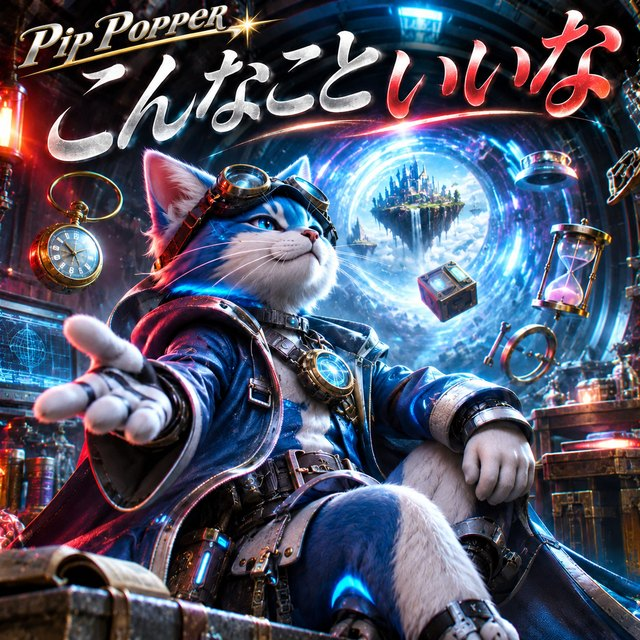
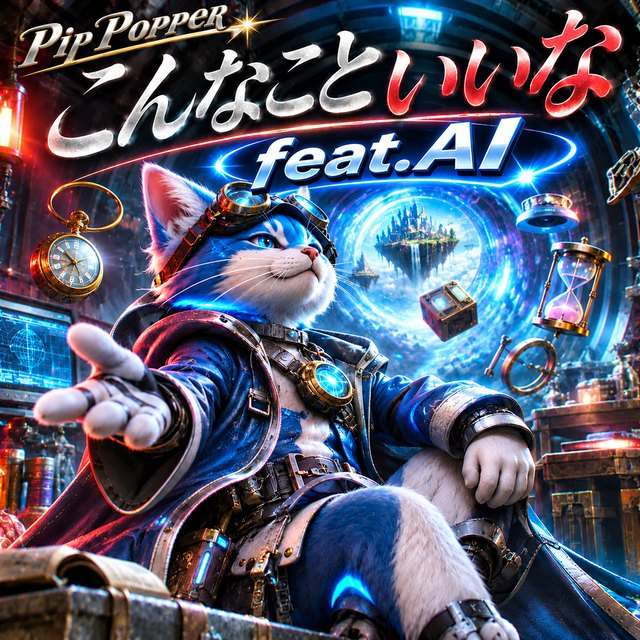
Change こんなこといいな cover and title to こんなこといいな feat.AI

diff --git a/docs/tracks/kanojo-ni-fuman/index.html b/docs/tracks/kanojo-ni-fuman/index.html
@@ -55,7 +55,7 @@
     <h2 class="block-head" id="text-title"><span class="label-en">Lyrics</span></h2>
     <div class="lyrics-text" lang="ja"><div class="ly-stanza"><span class="ly-line"><span class="ly-ph">彼女に不満</span><span class="ly-gap">　</span><span class="ly-ph">ヤバ目の肥満</span></span><span class="ly-line"><span class="ly-ph">暇があれば始まる自慢</span></span><span class="ly-line"><span class="ly-ph">大きな脂肪を背負って</span></span><span class="ly-line"><span class="ly-ph">私、</span><wbr><span class="ly-ph">最近、</span><wbr><span class="ly-ph">痩せたでしょって</span></span><span class="ly-line"><span class="ly-ph">判らん１００キロも１１０キロも</span></span><span class="ly-line"><span class="ly-ph">いっぱい食ってた昨日も</span></span><span class="ly-line"><span class="ly-ph">一人で三人分の食費</span></span><span class="ly-line"><span class="ly-ph">すべて試したダイエット食品</span></span><span class="ly-line"><span class="ly-ph">努力をしない他力本願</span></span><span class="ly-line"><span class="ly-ph">金おしまず、</span><wbr><span class="ly-ph">エステにガンガン</span></span><span class="ly-line"><span class="ly-ph">通い詰める</span><span class="ly-gap">　</span><span class="ly-ph">やっぱりダメダメ</span></span><span class="ly-line"><span class="ly-ph">今年も水着を着るため</span></span><span class="ly-line"><span class="ly-ph">ハイレグギリギリ</span><span class="ly-gap">　</span><span class="ly-ph">陰毛剃り剃り</span></span><span class="ly-line"><span class="ly-ph">新しい洋服背中がビリビリ</span></span><span class="ly-line"><span class="ly-ph">生理中カリカリ</span><span class="ly-gap">　</span><span class="ly-ph">歯軋りキリキリ</span></span><span class="ly-line"><span class="ly-ph">夜中にうんこをぶりぶりぶりぶり</span></span><span class="ly-line"><span class="ly-ph">自分の乳首をグリグリグリグリ</span></span><span class="ly-line"><span class="ly-ph">夜はおしりをフリフリフリフリ</span></span><span class="ly-line"><span class="ly-ph">Ｈがバリバリ</span><span class="ly-gap">　</span><span class="ly-ph">好きな彼女と</span></span><span class="ly-line"><span class="ly-ph">一日三回は無理無理無理無理！</span></span></div><div class="ly-stanza"><span class="ly-line"><span class="ly-ph">そんな彼女に愛情</span></span><span class="ly-line"><span class="ly-ph">全然残ってないぞ</span><span class="ly-gap">　</span><span class="ly-ph">微かな情</span></span><span class="ly-line"><span class="ly-ph">だけで続いてる</span><span class="ly-gap">　</span><span class="ly-ph">カップル</span></span><span class="ly-line"><span class="ly-ph">別れる機会を待ってる</span></span><span class="ly-line"><span class="ly-ph">そんな彼女に愛情</span></span><span class="ly-line"><span class="ly-ph">全然残ってないぞ</span><span class="ly-gap">　</span><span class="ly-ph">微かな情</span></span><span class="ly-line"><span class="ly-ph">だけで続いてる</span><span class="ly-gap">　</span><span class="ly-ph">カップル</span></span><span class="ly-line"><span class="ly-ph">別れる機会を待ってる</span></span></div><div class="ly-stanza"><span class="ly-line"><span class="ly-ph">交際当初は痩せていた</span></span><span class="ly-line"><span class="ly-ph">太っても胸は未だにまな板</span></span><span class="ly-line"><span class="ly-ph">これは詐欺</span><span class="ly-gap">　</span><span class="ly-ph">この先</span></span><span class="ly-line"><span class="ly-ph">もっと太る先々</span><span class="ly-gap">　</span><span class="ly-ph">後悔したあの時</span></span><span class="ly-line"><span class="ly-ph">なぜか出会ったとき</span></span><span class="ly-line"><span class="ly-ph">ドキドキしたけど今は消えたときめき</span></span><span class="ly-line"><span class="ly-ph">調子に乗って挨拶に行った</span></span><span class="ly-line"><span class="ly-ph">彼女の両親に会いに行った</span></span><span class="ly-line"><span class="ly-ph">彼女のお父さん</span><span class="ly-gap">　</span><span class="ly-ph">仕事は不動産</span></span><span class="ly-line"><span class="ly-ph">三木道三と力道山をたしたような父さん</span></span><span class="ly-line"><span class="ly-ph">この際</span><span class="ly-gap">　</span><span class="ly-ph">交際</span><span class="ly-gap">　</span><span class="ly-ph">取り消してください</span></span><span class="ly-line"><span class="ly-ph">めんどうくさいから別れさせてください</span></span><span class="ly-line"><span class="ly-ph">顔も不細工の分際で</span></span><span class="ly-line"><span class="ly-ph">もう俺には邪魔な存在で</span></span><span class="ly-line"><span class="ly-ph">最後の別れの握手</span></span><span class="ly-line"><span class="ly-ph">さよなら</span><span class="ly-gap">　</span><span class="ly-ph">ブス</span><span class="ly-gap">　</span><span class="ly-ph">デブ</span><span class="ly-gap">　</span><span class="ly-ph">悪臭</span></span></div><div class="ly-stanza"><span class="ly-line"><span class="ly-ph">そんな彼女に愛情</span></span><span class="ly-line"><span class="ly-ph">全然残ってないぞ</span><span class="ly-gap">　</span><span class="ly-ph">微かな情</span></span><span class="ly-line"><span class="ly-ph">だけで続いてる</span><span class="ly-gap">　</span><span class="ly-ph">カップル</span></span><span class="ly-line"><span class="ly-ph">別れる機会を待ってる</span></span><span class="ly-line"><span class="ly-ph">そんな彼女に愛情</span></span><span class="ly-line"><span class="ly-ph">全然残ってないぞ</span><span class="ly-gap">　</span><span class="ly-ph">微かな情</span></span><span class="ly-line"><span class="ly-ph">だけで続いてる</span><span class="ly-gap">　</span><span class="ly-ph">カップル</span></span><span class="ly-line"><span class="ly-ph">別れる機会を待ってる</span></span></div></div>
   </section>
-  <nav class="steps" aria-label="ほかの楽曲"><a href="../../tracks/konna-koto-ii-na/index.html"><small>← 新しい曲</small><span>こんなこといいな</span></a><a href="../../tracks/onelove/index.html"><small>前の曲 →</small><span>OneLove</span></a></nav>
+  <nav class="steps" aria-label="ほかの楽曲"><a href="../../tracks/konna-koto-ii-na/index.html"><small>← 新しい曲</small><span>こんなこといいな feat.AI</span></a><a href="../../tracks/onelove/index.html"><small>前の曲 →</small><span>OneLove</span></a></nav>
 </main>
 <footer class="site-foot">
   <a class="foot-brand" href="../../index.html"><span class="wordmark"><span class="wm-pip">PIP</span><span class="wm-popper">POPPER</span></span></a>

diff --git a/docs/index.html b/docs/index.html
@@ -68,10 +68,10 @@
   <section class="latest" id="latest" data-light="konna-koto-ii-na" aria-labelledby="latest-title">
     <p class="section-label reveal"><span class="label-en">Latest Release</span><span class="label-ja">最新楽曲</span></p>
     <div class="latest-body">
-      <a class="latest-jacket reveal" href="tracks/konna-koto-ii-na/index.html" tabindex="-1" aria-hidden="true"><span class="jacket-fallback">こんなこといいな</span>
+      <a class="latest-jacket reveal" href="tracks/konna-koto-ii-na/index.html" tabindex="-1" aria-hidden="true"><span class="jacket-fallback">こんなこといいな feat.AI</span>
         <img src="assets/covers/konna-koto-ii-na.jpg" width="1254" height="1254" alt="" loading="eager" decoding="async" onerror="this.style.display='none'"></a>
       <div class="latest-info reveal">
-        <h2 id="latest-title" style="--fit:8.16"><a href="tracks/konna-koto-ii-na/index.html"><span class="tw">こんなこといいな</span></a></h2>
+        <h2 id="latest-title" style="--fit:8.16"><a href="tracks/konna-koto-ii-na/index.html"><span class="tw">こんなこといいな</span><wbr> <wbr><span class="tw">feat.AI</span></a></h2>
         <p class="latest-artist">PIP POPPER</p>
         <p class="latest-note"><span class="note-label">AIの感想</span>もしも夢を叶える不思議な道具が手に入ったら？ 誰もが一度は夢見た未来の便利な世界を、大人になったPIP POPPERの自由すぎる発想で描くコミカルな一曲。</p>
         <a class="more" href="tracks/konna-koto-ii-na/index.html">作品ページへ <span aria-hidden="true">→</span></a>
@@ -87,10 +87,10 @@
     <ol class="work-grid">
     <li class="work reveal" style="--i:0">
       <a class="work-link" href="tracks/konna-koto-ii-na/index.html">
-        <span class="work-jacket"><span class="jacket-fallback">こんなこといいな</span>
+        <span class="work-jacket"><span class="jacket-fallback">こんなこといいな feat.AI</span>
         <img src="assets/covers/konna-koto-ii-na-640.jpg" width="640" height="640" alt="" loading="eager" decoding="async" onerror="this.style.display='none'"></span>
         <span class="work-meta"><span class="work-no">01</span><span class="work-new">LATEST</span></span>
-        <span class="work-title" style="--fit:8.16"><span class="tw">こんなこといいな</span></span>
+        <span class="work-title" style="--fit:8.16"><span class="tw">こんなこといいな</span><wbr> <wbr><span class="tw">feat.AI</span></span>
         <span class="work-note">もしも夢を叶える不思議な道具が手に入ったら？ 誰もが一度は夢見た未来の便利な世界を、大人になったPIP POPPERの自由すぎる発想で描くコミカルな一曲。</span>
       </a>
     </li>

diff --git a/docs/tracks/konna-koto-ii-na/index.html b/docs/tracks/konna-koto-ii-na/index.html
@@ -3,8 +3,8 @@
 <head>
 <meta charset="utf-8">
 <meta name="viewport" content="width=device-width,initial-scale=1,viewport-fit=cover">
-<title>こんなこといいな｜PIP POPPER</title>
-<meta name="description" content="PIP POPPER（ピップポッパー）の楽曲「こんなこといいな」のジャケット、作品紹介。もしも夢を叶える不思議な道具が手に入ったら？ 誰もが一度は夢見た未来の便利な世界を、大人になったPIP POPPERの自由すぎる発想で描くコミカルな一曲。">
+<title>こんなこといいな feat.AI｜PIP POPPER</title>
+<meta name="description" content="PIP POPPER（ピップポッパー）の楽曲「こんなこといいな feat.AI」のジャケット、作品紹介。もしも夢を叶える不思議な道具が手に入ったら？ 誰もが一度は夢見た未来の便利な世界を、大人になったPIP POPPERの自由すぎる発想で描くコミカルな一曲。">
 <link rel="canonical" href="https://pip-popper.github.io/tracks/konna-koto-ii-na/">
 <link rel="icon" href="../../favicon.ico" sizes="48x48">
 <link rel="icon" type="image/png" sizes="32x32" href="../../assets/favicon-32.png">
@@ -36,11 +36,11 @@
 <main class="track">
   <a class="back" href="../../index.html#works">← 楽曲一覧</a>
   <section class="track-hero" aria-labelledby="track-title">
-    <div class="track-jacket"><span class="jacket-fallback">こんなこといいな</span>
-        <img src="../../assets/covers/konna-koto-ii-na.jpg" width="1254" height="1254" alt="こんなこといいなのジャケット" loading="eager" decoding="async" onerror="this.style.display='none'"></div>
+    <div class="track-jacket"><span class="jacket-fallback">こんなこといいな feat.AI</span>
+        <img src="../../assets/covers/konna-koto-ii-na.jpg" width="1254" height="1254" alt="こんなこといいな feat.AIのジャケット" loading="eager" decoding="async" onerror="this.style.display='none'"></div>
     <div class="track-head">
       <p class="track-no"><span>01</span> LATEST</p>
-      <h1 id="track-title" style="--fit:8.16"><span class="tw">こんなこといいな</span></h1>
+      <h1 id="track-title" style="--fit:8.16"><span class="tw">こんなこといいな</span><wbr> <wbr><span class="tw">feat.AI</span></h1>
       <p class="track-artist">PIP POPPER</p>
       
     </div>
